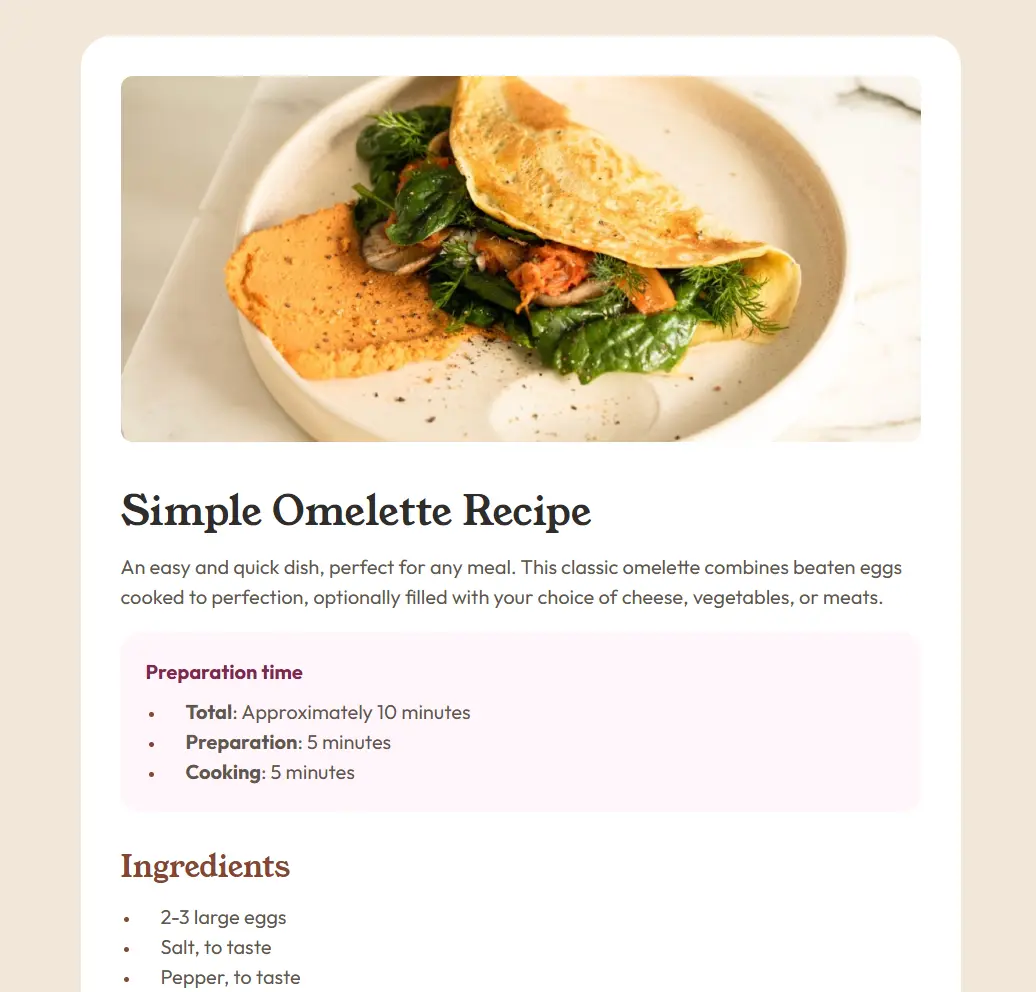
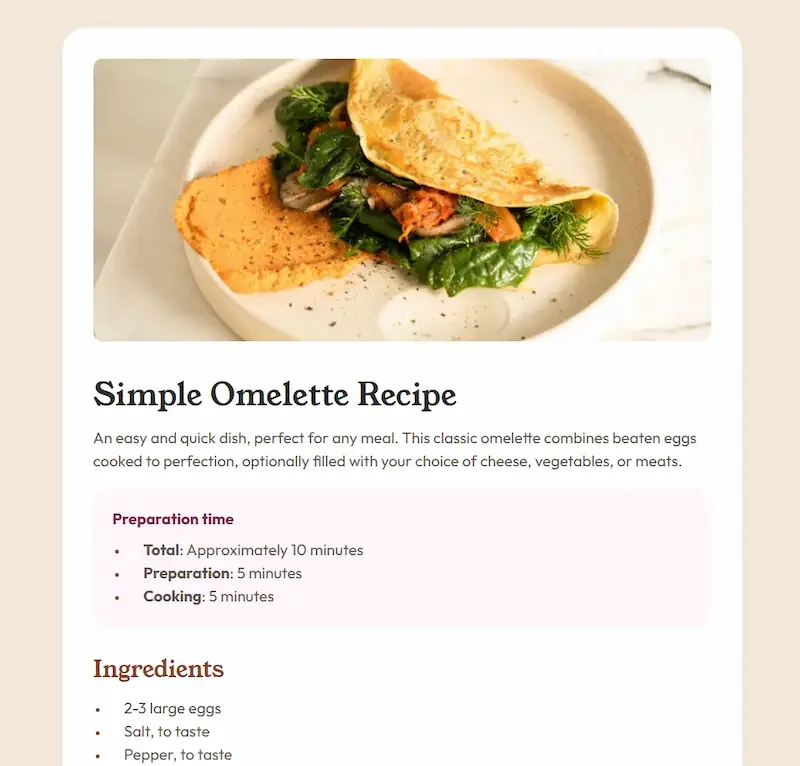
Finished editing template file with own content.

diff --git a/index.html b/index.html
@@ -69,8 +69,8 @@
 										<span class="date">August 5, 2026</span>
 										<h2><a href="https://bessoagustin.github.io/recipe-page-main/" target="_blank">Recipe Page</a></h2>
 									</header>
-									<a href="https://bessoagustin.github.io/recipe-page-main/" class="image fit" target="_blank"><img src="images/recipe_page_sc(2).webp" alt="" /></a>
-									<p>Recipe card including macros table using semantic HTML, CSS Flexbox, custom variables and @media queries.</p>
+									<a href="https://bessoagustin.github.io/recipe-page-main/" class="image fit" target="_blank"><img src="images/recipe_page_sc.webp" alt="project overview" /></a>
+									<p>Recipe page including macros table using semantic HTML, CSS Flexbox, custom variables and @media queries.</p>
 									<ul class="actions special">
 										<li><a href="https://github.com/bessoAgustin/recipe-page-main.git" class="button" target="_blank">Github Repo</a></li>
 										<li><a href="https://bessoagustin.github.io/recipe-page-main/" class="button" target="_blank">Live Site</a></li>
@@ -79,42 +79,40 @@
 								<article>
 									<header>
 										<span class="date">July 15, 2026</span>
-										<h2><a href="#">Social Links Profile</a></h2>
+										<h2><a href="https://bessoagustin.github.io/social-links-profile-main/" target="_blank">Social Links Profile</a></h2>
 									</header>
-									<a href="#" class="image fit"><img src="images/profile_links_sc.webp" alt="" /></a>
+									<a href="https://bessoagustin.github.io/social-links-profile-main/" class="image fit" target="_blank"><img src="images/profile_links_sc.webp" alt="project overview" /></a>
 									<p>Profile links card using hover states via pseudo-classes and Flexbox properties in CSS.</p>
 									<ul class="actions special">
-										<li><a href="https://github.com/bessoAgustin/social-links-profile-main.git" class="button">Github Repo</a></li>
-										<li><a href="https://bessoagustin.github.io/social-links-profile-main/" class="button">Live Site</a></li>
+										<li><a href="https://github.com/bessoAgustin/social-links-profile-main.git" class="button" target="_blank">Github Repo</a></li>
+										<li><a href="https://bessoagustin.github.io/social-links-profile-main/" class="button" target="_blank">Live Site</a></li>
 									</ul>
 								</article>
 								<article>
 									<header>
-										<span class="date">April 18, 2017</span>
-										<h2><a href="#">Ante mattis<br />
-										interdum dolor</a></h2>
+										<span class="date">July 2, 2026</span>
+										<h2><a href="https://bessoagustin.github.io/blog-preview-card/" target="_blank">Blog Preview Card</a></h2>
 									</header>
-									<a href="#" class=" fit"><img src="images/pic04.jpg" alt="" /></a>
-									<p>Donec eget ex magna. Interdum et malesuada fames ac ante ipsum primis in faucibus. Pellentesque venenatis dolor imperdiet dolor mattis sagittis magna etiam.</p>
+									<a href="https://bessoagustin.github.io/blog-preview-card/" class="image fit" target="_blank"><img src="images/blog_preview_sc.webp" alt="project overview" /></a>
+									<p>Project developed from Figma file combining different font weights, using box shadow, active states and an img element inside a container.</p>
 									<ul class="actions special">
-										<li><a href="#" class="button">Github Repo</a></li>
-										<li><a href="#" class="button">Live Site</a></li>
+										<li><a href="https://github.com/bessoAgustin/blog-preview-card.git" class="button" target="_blank">Github Repo</a></li>
+										<li><a href="https://bessoagustin.github.io/blog-preview-card/" class="button" target="_blank">Live Site</a></li>
 									</ul>
 								</article>
 								<article>
 									<header>
-										<span class="date">April 14, 2017</span>
-										<h2><a href="#">Tempus sed<br />
-										nulla imperdiet</a></h2>
+										<span class="date">May 25, 2026</span>
+										<h2><a href="https://bessoagustin.github.io/qr-code-challenge/" target="_blank">QR Code</a></h2>
 									</header>
-									<a href="#" class="image fit"><img src="images/pic05.jpg" alt="" /></a>
-									<p>Donec eget ex magna. Interdum et malesuada fames ac ante ipsum primis in faucibus. Pellentesque venenatis dolor imperdiet dolor mattis sagittis magna etiam.</p>
+									<a href="https://bessoagustin.github.io/qr-code-challenge/" class="image fit" target="_blank"><img src="images/qr_code_sc.webp" alt="project overview" /></a>
+									<p>First project on Frontend Mentor to upgrade my coding and styling skills, developed from Figma design file.</p>
 									<ul class="actions special">
-										<li><a href="#" class="button">Github Repo</a></li>
-										<li><a href="#" class="button">Live Site</a></li>
+										<li><a href="https://github.com/bessoAgustin/qr-code-challenge.git" class="button">Github Repo</a></li>
+										<li><a href="https://bessoagustin.github.io/qr-code-challenge/" class="button">Live Site</a></li>
 									</ul>
 								</article>
-								<article>
+								<!-- <article>
 									<header>
 										<span class="date">April 11, 2017</span>
 										<h2><a href="#">Odio magna<br />
@@ -139,7 +137,7 @@
 										<li><a href="#" class="button">Github Repo</a></li>
 										<li><a href="#" class="button">Live Site</a></li>
 									</ul>
-								</article>
+								</article> -->
 							</section>
 
 					</div>

diff --git a/assets/css/main.css b/assets/css/main.css
@@ -3874,6 +3874,8 @@ input, select, textarea {
 			}
 
 			#main > .posts > article {
+				display:flex;
+				flex-direction: column;
 				border-color: #eeeeee;
 				border-left-width: 2px;
 				border-style: solid;
@@ -3891,6 +3893,10 @@ input, select, textarea {
 
 				#main > .posts > article:nth-child(-n + 2) {
 					border-top-width: 0;
+				}
+
+				#main > .posts > article > .actions {
+					margin-top: auto;
 				}
 
 			@media screen and (max-width: 980px) {
